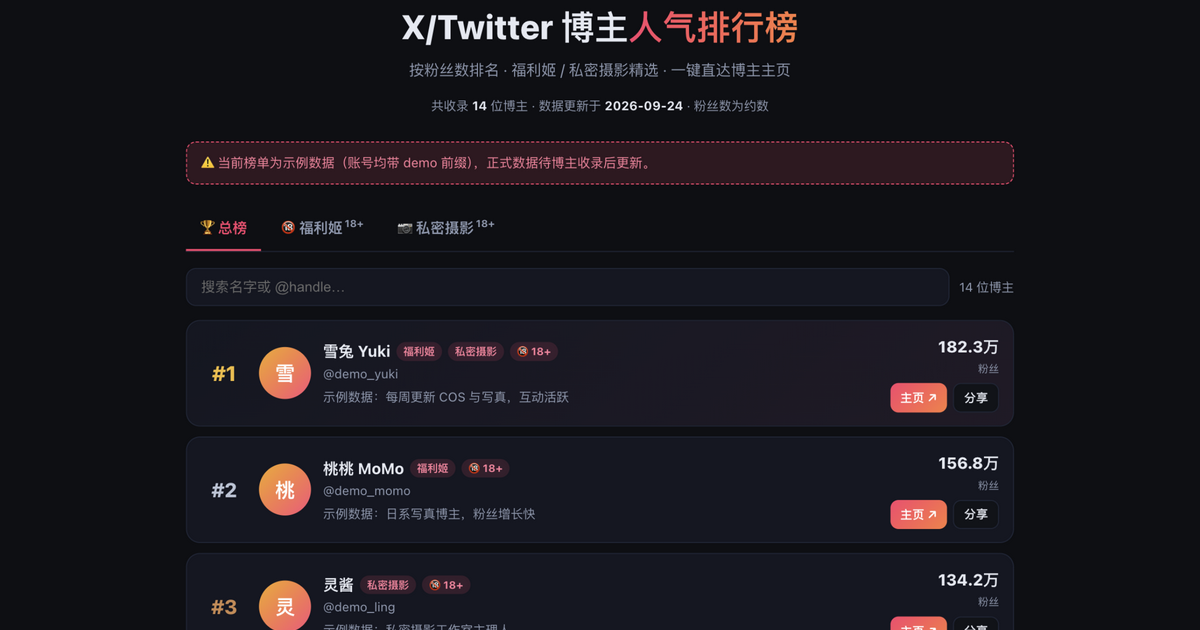
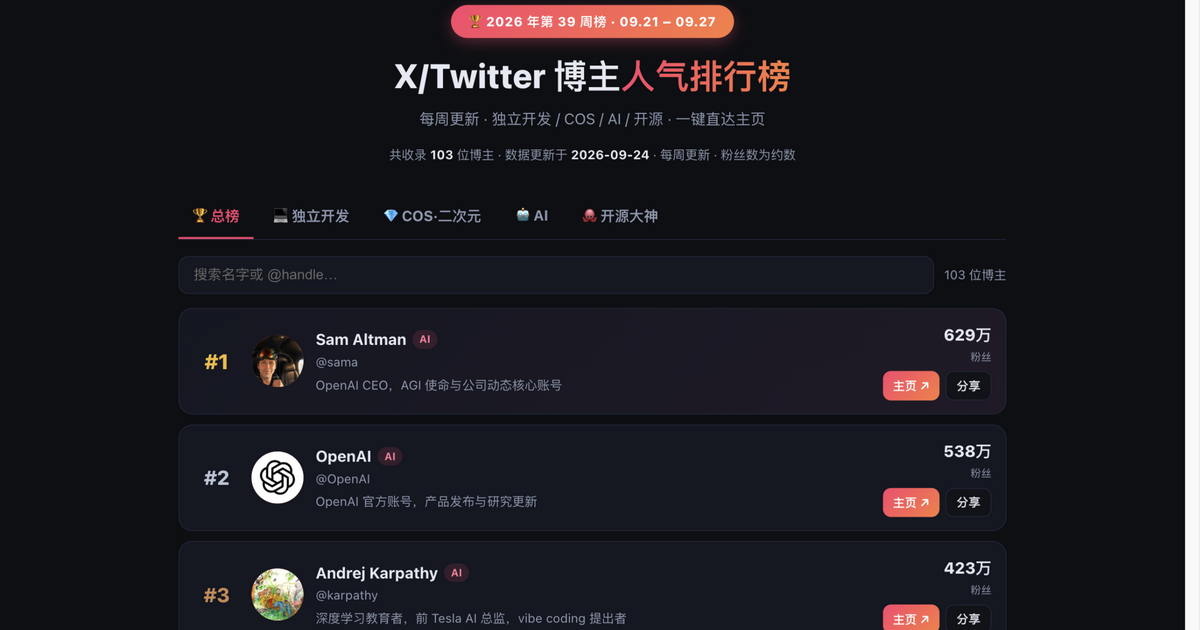
feat: remove all 18+ content for long-term safety — drop flj/photo tabs and 54 entries, age gate, NSFW copy; site is now all-ages (103 entries: indie/cos/ai/oss); regenerate og-image

diff --git a/index.html b/index.html
@@ -3,8 +3,8 @@
 <head>
 <meta charset="UTF-8">
 <meta name="viewport" content="width=device-width, initial-scale=1">
-<title>X热榜 — X/Twitter 博主每周人气排行 · 福利姬、私摄与独立开发推荐 | X Hot List</title>
-<meta name="description" content="X热榜是每周更新的 X（Twitter）博主粉丝数周榜：福利姬、私密摄影等 18+ 创作者与独立开发出海开发者按粉丝数排名，一键直达博主主页。免费提交收录，博主分享可带来真实流量。">
+<title>X热榜 — X/Twitter 博主每周人气排行 · 独立开发、COS、AI 与开源 | X Hot List</title>
+<meta name="description" content="X热榜是每周更新的 X（Twitter）博主粉丝数周榜：独立开发出海、COS·二次元、AI 与开源大神按粉丝数排名，一键直达博主主页。免费提交收录，博主分享可带来真实流量。">
 <link rel="canonical" href="https://tliens.top/">
 <link rel="alternate" hreflang="zh" href="https://tliens.top/?lang=zh">
 <link rel="alternate" hreflang="en" href="https://tliens.top/?lang=en">
@@ -13,14 +13,14 @@
 <meta property="og:type" content="website">
 <meta property="og:site_name" content="X热榜 · X Hot List">
 <meta property="og:title" content="X热榜 — X/Twitter 每周人气排行">
-<meta property="og:description" content="每周更新的 X 博主粉丝数周榜：福利姬、私密摄影与独立开发精选，一键直达主页。">
+<meta property="og:description" content="每周更新的 X 博主粉丝数周榜：独立开发、COS、AI 与开源精选，一键直达主页。">
 <meta property="og:url" content="https://tliens.top/">
 <meta property="og:image" content="https://tliens.top/og-image.png">
 <meta property="og:locale" content="zh_CN">
 <meta property="og:locale:alternate" content="en_US">
 <meta name="twitter:card" content="summary_large_image">
 <meta name="twitter:title" content="X热榜 — X/Twitter Creator Rankings">
-<meta name="twitter:description" content="Weekly X/Twitter creator rankings: 18+ picks, boudoir & indie hackers. One tap to each profile.">
+<meta name="twitter:description" content="Weekly X/Twitter creator rankings: indie hackers, cosplay, AI & open source. One tap to each profile.">
 <meta name="twitter:image" content="https://tliens.top/og-image.png">
 <script type="application/ld+json">
 {"@context":"https://schema.org","@graph":[
@@ -28,7 +28,7 @@
   "applicationCategory":"EntertainmentApplication","operatingSystem":"Any",
   "offers":{"@type":"Offer","price":"0","priceCurrency":"USD"},
   "inLanguage":["zh-CN","en"],
-  "description":"X（Twitter）博主每周人气排行榜，按粉丝数排名，含福利姬、私密摄影与独立开发推荐分区，可一键跳转博主主页。"},
+  "description":"X（Twitter）博主每周人气排行榜，按粉丝数排名，含独立开发、COS·二次元、AI 与开源推荐分区，可一键跳转博主主页。"},
  {"@type":"FAQPage","mainEntity":[
   {"@type":"Question","name":"榜单数据从哪里来？",
    "acceptedAnswer":{"@type":"Answer","text":"本榜每周更新一次，粉丝数为人工核对的约数，仅供排序参考。本站为独立目录站，与 X 官方无关联。"}},
@@ -36,8 +36,6 @@
    "acceptedAnswer":{"@type":"Answer","text":"点击页面的「提交收录」按钮，在 GitHub Issue 表单里填写博主信息，审核通过后即可免费上榜。"}},
   {"@type":"Question","name":"排名规则是什么？",
    "acceptedAnswer":{"@type":"Answer","text":"总榜按粉丝数从高到低排列；各分区沿用总榜名次，方便筛选浏览。"}},
-  {"@type":"Question","name":"福利姬 / 私密摄影分区有什么限制？",
-   "acceptedAnswer":{"@type":"Answer","text":"这两个分区包含成人向内容链接，进入前需确认年满 18 岁，确认结果只保存在你自己的浏览器里。"}},
   {"@type":"Question","name":"博主想修改或删除自己的信息怎么办？",
    "acceptedAnswer":{"@type":"Answer","text":"在 GitHub 仓库提 Issue 说明情况，或让朋友代为提交，通常 48 小时内处理下架或更正。"}}
  ]}
@@ -135,15 +133,6 @@ footer{border-top:1px solid var(--line);margin-top:34px;padding:22px 0 40px;font
 footer p{margin-bottom:6px}
 footer a{color:var(--chiptx)}
 .flinks{margin-top:10px;display:flex;gap:14px;flex-wrap:wrap}
-.gate{position:fixed;inset:0;z-index:100;background:rgba(5,7,12,.72);backdrop-filter:blur(6px);-webkit-backdrop-filter:blur(6px);display:flex;align-items:center;justify-content:center;padding:20px}
-.gate[hidden]{display:none}
-.gate .box{max-width:380px;width:100%;background:var(--card);border:1px solid var(--line);border-radius:16px;padding:26px 24px;text-align:center;box-shadow:var(--shadow)}
-.gate .ico{font-size:38px}
-.gate h3{font-size:18px;margin:10px 0 8px}
-.gate p{font-size:13.5px;color:var(--tx2);margin-bottom:18px}
-.gate .row{display:flex;gap:10px}
-.gate .row button{flex:1;border-radius:10px;padding:10px 0;font-size:14px;font-weight:700;border:1px solid var(--line);background:var(--bg2);color:var(--tx)}
-.gate .row .yes{background:linear-gradient(135deg,var(--acc),var(--acc2));border:none;color:#fff}
 @media (max-width:560px){
   .card{flex-wrap:wrap}
   .rk{flex:0 0 34px}
@@ -169,7 +158,7 @@ footer a{color:var(--chiptx)}
   <section class="hero">
     <div class="weekpill" id="weekPill">🏆 2026 年第 39 周榜 · 09.21 – 09.27</div>
     <h1><span data-i18n="h1a">X/Twitter 博主</span><em data-i18n="h1b">人气排行榜</em></h1>
-    <p class="tagline" data-i18n="tagline">每周更新 · 福利姬 / 私密摄影 / COS / 开发 / AI / 开源 · 一键直达主页</p>
+    <p class="tagline" data-i18n="tagline">每周更新 · 独立开发 / COS / AI / 开源 · 一键直达主页</p>
     <div class="metabar" id="metabar"></div>
   </section>
 
@@ -177,8 +166,6 @@ footer a{color:var(--chiptx)}
 
   <nav class="tabs" id="tabs">
     <button data-tab="all" class="on" data-i18n="tabAll">🏆 总榜</button>
-    <button data-tab="flj"><span data-i18n="tabFlj">🔞 福利姬</span><span class="ad">18+</span></button>
-    <button data-tab="photo"><span data-i18n="tabPhoto">📷 私密摄影</span><span class="ad">18+</span></button>
     <button data-tab="indie"><span data-i18n="tabIndie">💻 独立开发</span></button>
     <button data-tab="cos"><span data-i18n="tabCos">💎 COS·二次元</span></button>
     <button data-tab="ai"><span data-i18n="tabAi">🤖 AI</span></button>
@@ -215,10 +202,6 @@ footer a{color:var(--chiptx)}
       <p data-i18n="fa3">总榜按粉丝数从高到低排列；各分区沿用总榜名次，方便筛选浏览。</p>
     </details>
     <details>
-      <summary data-i18n="fq4">福利姬 / 私密摄影分区有什么限制？</summary>
-      <p data-i18n="fa4">这两个分区包含成人向内容链接，进入前需确认年满 18 岁。确认结果只保存在你自己的浏览器里，不会上传。</p>
-    </details>
-    <details>
       <summary data-i18n="fq5">博主想修改或删除自己的信息怎么办？</summary>
       <p data-i18n="fa5">在 GitHub 仓库提 Issue 说明情况即可，通常 48 小时内处理更正或下架。</p>
     </details>
@@ -226,8 +209,7 @@ footer a{color:var(--chiptx)}
 
   <footer>
     <p data-i18n="fDisc">本站为独立的第三方目录，与 X Corp. / Twitter 无任何关联；博主信息整理自公开资料，排名为约数仅供参考。</p>
-    <p data-i18n="fNsfw">🔞 站内部分链接指向含成人内容的账号，仅限年满 18 岁用户浏览，请遵守所在地区法律法规。</p>
-    <p data-i18n="fPrivacy">本站无账号系统、无跟踪 Cookie；年龄确认与主题偏好仅存储在你本地浏览器。</p>
+    <p data-i18n="fPrivacy">本站无账号系统、无跟踪 Cookie；主题偏好仅存储在你本地浏览器。</p>
     <div class="flinks">
       <a href="https://github.com/Tliens/xhot/issues/new?template=submit.yml" target="_blank" rel="noopener" data-i18n="fSubmit">提交收录</a>
       <a href="https://github.com/Tliens/xhot/issues" target="_blank" rel="noopener" data-i18n="fContact">联系 / 下架申请</a>
@@ -236,80 +218,15 @@ footer a{color:var(--chiptx)}
   </footer>
 </main>
 
-<div class="gate" id="gate" hidden>
-  <div class="box" role="dialog" aria-modal="true" aria-labelledby="gateTitle">
-    <div class="ico">🔞</div>
-    <h3 id="gateTitle" data-i18n="gateTitle">成人向内容确认</h3>
-    <p data-i18n="gateBody">此分区收录的博主可能发布成人向内容。确认你已年满 18 岁，并愿意浏览此类链接吗？</p>
-    <div class="row">
-      <button id="gateNo" data-i18n="gateNo">返回</button>
-      <button id="gateYes" class="yes" data-i18n="gateYes">我已满 18 岁，继续</button>
-    </div>
-  </div>
-</div>
-
 <script type="module">
 /* ===== 数据：手动维护。改这里即可，push 后约 1 分钟自动重新部署 =====
- * h: X 用户名（不带 @）；n: 显示名；f: 粉丝数（约数）；c: 分类 ['flj','photo','indie','sea']
+ * h: X 用户名（不带 @）；n: 显示名；f: 粉丝数（约数）；c: 分类 ['indie','sea','cos','acg','ai','oss']
  * d: 双语简介；av: 头像 URL（可留空，留空用首字母渐变头像）
  * bv: 主页封面 URL（可留空；填了会作为卡片背景，加载时渐显、悬停时遮罩渐隐）；add: 收录月份
  */
 const SITE = 'https://tliens.top/';
 const META = { updated: '2026-09-24', demo: false };
 const BLOGGERS = [
-  { h:'Anaimiya',       n:'Naimi奶咪',              f:4310000, c:['flj'],         d:{zh:'中文区头部成人内容创作者，高清自制视频与图片更新频繁',en:'Top Chinese-language adult creator with frequent HD self-produced updates'}, av:'https://pbs.twimg.com/profile_images/1754234821663182848/vi711eoo.jpg', add:'2026-09' },
-  { h:'waifupupu',      n:'♡pupuwaifu♡',            f:3300000, c:['flj'],         d:{zh:'人气反差系创作者，订阅制内容运营',en:'Popular contrast-style creator running subscription content'}, av:'https://pbs.twimg.com/profile_images/2019545301451771904/vnE3PDT3.jpg', add:'2026-09' },
-  { h:'HongKong_Doll',  n:'HongKongDoll',           f:3180000, c:['flj'],         d:{zh:'香港知名创作者，高清自拍视频全网广泛流传',en:'Well-known Hong Kong creator, widely shared HD self-shot videos'}, av:'https://pbs.twimg.com/profile_images/1546185691872247809/9wUYnr58.jpg', add:'2026-09' },
-  { h:'kunkunkun188',   n:'困困狗',                  f:1950000, c:['flj'],         d:{zh:'新晋高人气创作者，日常更新身材与生活分享',en:'Fast-rising creator with daily body & lifestyle posts'}, av:'https://pbs.twimg.com/profile_images/1546226883838496768/5kHDoMYB.jpg', add:'2026-09' },
-  { h:'SpicygumL',      n:'JuneLiu SpicyGum🍬',     f:1840000, c:['flj'],         d:{zh:'知名成人模特，多平台发布高清自制内容',en:'Renowned adult model publishing HD content across platforms'}, av:'https://pbs.twimg.com/profile_images/1347830166152744960/MswfNm6h.jpg', add:'2026-09' },
-  { h:'lvmaoshetuite',  n:'㊙绿帽社🍀',             f:1380000, c:['flj'],         d:{zh:'主题向创作者内容与资源分享账号',en:'Themed creator content and resource sharing account'}, av:'', add:'2026-09' },
-  { h:'FortuneCutie00', n:'FortuneCutie饼干姐姐',    f:1320000, c:['flj','photo'], d:{zh:'甜美风格写真与福利内容创作者',en:'Sweet-style photo sets and adult content creator'}, av:'https://pbs.twimg.com/profile_images/2076889809679990784/MeAyaCI0.jpg', add:'2026-09' },
-  { h:'joycelyn52011',  n:'江江',                    f:1110000, c:['flj'],         d:{zh:'日常更新私密向内容的创作者',en:'Creator sharing daily intimate content'}, av:'', add:'2026-09' },
-  { h:'sxeyuki',        n:'Sexy Yuki',              f:1090000, c:['flj'],         d:{zh:'佛系日更成人向内容创作者',en:'Laid-back daily adult content creator'}, av:'', add:'2026-09' },
-  { h:'dljingxiang',    n:'静香',                    f:1020000, c:['flj'],         d:{zh:'中文区人气创作者，专注私密视觉内容',en:'Popular Chinese creator focused on intimate visuals'}, av:'', add:'2026-09' },
-  { h:'watever177',     n:'17°',                    f:920000,  c:['flj'],         d:{zh:'原创 NSFW 创作者，多渠道订阅内容',en:'Original NSFW creator with multi-channel subscriptions'}, av:'', add:'2026-09' },
-  { h:'azhua1997',      n:'阿朱啊',                  f:890000,  c:['flj'],         d:{zh:'老牌人气创作者，日常写真与身材分享',en:'Veteran popular creator sharing daily photo sets'}, av:'https://pbs.twimg.com/profile_images/1073187548812345345/8o7zXjNE.jpg', add:'2026-09' },
-  { h:'TiTi40511552',   n:'🍑♡TiTi鈦合金♡ 🍑',      f:950000,  c:['cos','flj','photo'], d:{zh:'COS 与二次元艺术写真结合的 NSFW 模特',en:'NSFW model combining cosplay and anime-style art photography'}, av:'https://pbs.twimg.com/profile_images/1628362420451430407/p3j5Con-.jpg', add:'2026-09' },
-  { h:'oshiximiya',     n:'国服第一瑶',              f:870000,  c:['flj'],         d:{zh:'露脸向内容与吃播系列创作者',en:'Face-revealing content and mukbang series creator'}, av:'', add:'2026-09' },
-  { h:'nana_taipei',    n:'Nana',                   f:870000,  c:['flj','photo'], d:{zh:'台湾模特风写真与视频创作者',en:'Taiwanese model-style photo and video creator'}, av:'', add:'2026-09' },
-  { h:'12baegirl',      n:'♡† 𝐍𝐨. 𝟏𝟐 † 🕸',       f:870000,  c:['flj'],         d:{zh:'主题化运营的福利内容博主',en:'Themed adult content creator'}, av:'', add:'2026-09' },
-  { h:'kitty2002102',   n:'kitty2002102',           f:820000,  c:['flj'],         d:{zh:'原创 solo 视频内容创作者',en:'Original solo video content creator'}, av:'', add:'2026-09' },
-  { h:'WANIMAL912',     n:'WANIMAL | Official',     f:800000,  c:['photo'],       d:{zh:'人体艺术摄影师，RAW 风格光影表达',en:'Fine-art body photographer with a raw, light-driven style'}, av:'https://pbs.twimg.com/profile_images/1235720748267757569/OFHuDHUT.jpg', add:'2026-09' },
-  { h:'tiaotiaosheep',  n:'跳跳羊💃',                f:750000,  c:['flj'],         d:{zh:'御姐风原创认证内容创作者',en:'Mature-style creator with verified original content'}, av:'', add:'2026-09' },
-  { h:'gulililucky',    n:'Gulili谷鲤里',           f:750000,  c:['flj'],         d:{zh:'测评与情趣用品 vlog 类创作者',en:'Review and adult-toy vlog creator'}, av:'', add:'2026-09' },
-  { h:'vasileva1122',   n:'瓦西列娃的日记本',        f:690000,  c:['flj','photo'], d:{zh:'日记式私密内容与写真分享',en:'Diary-style intimate content and photo sets'}, av:'', add:'2026-09' },
-  { h:'bigcat_mia',     n:'高橋尤美',                f:690000,  c:['flj'],         d:{zh:'猫娘人设的甜系日常内容创作者',en:'Catgirl-persona creator with daily sweet content'}, av:'', add:'2026-09' },
-  { h:'kechunyaoll',    n:'𝓊𝓃𝒹𝓇ℯ𝓈𝓈',               f:640000,  c:['photo','flj'], d:{zh:'氛围感人像与私密摄影向内容',en:'Mood-driven portraits and intimate photography'}, av:'', add:'2026-09' },
-  { h:'alantop1069',    n:'🅰🅛🅐🅝 600K TOP 1%',     f:640000,  c:['flj'],         d:{zh:'台湾成人向视频内容创作者',en:'Taiwanese adult video creator'}, av:'', add:'2026-09' },
-  { h:'qianqianluoluo', n:'芊落',                    f:580000,  c:['flj','photo'], d:{zh:'清纯反差风写真与日常私密分享',en:'Pure-contrast photo sets and daily intimate shares'}, av:'https://pbs.twimg.com/profile_images/2016142175218581504/-13_VTm-.jpg', add:'2026-09' },
-  { h:'rercardo',       n:'九条南无',                f:570000,  c:['flj'],         d:{zh:'病娇人设 NSFW 内容创作者',en:'Yandere-persona NSFW creator'}, av:'', add:'2026-09' },
-  { h:'madousuchang',   n:'madousuchang',           f:560000,  c:['flj'],         d:{zh:'成人影片预览与资讯分享',en:'Adult film previews and info sharing'}, av:'', add:'2026-09' },
-  { h:'Mr_lu66',        n:'Mr_lu66',                f:520000,  c:['flj','photo'], d:{zh:'可爱系少女风 COS 与私房写真',en:'Cute-style cosplay and boudoir photo sets'}, av:'', add:'2026-09' },
-  { h:'yuzuki_shiroko', n:'yuzuki_shiroko',         f:480000,  c:['flj'],         d:{zh:'中文区人气成人内容博主',en:'Popular Chinese-language adult creator'}, av:'', add:'2026-09' },
-  { h:'Slut_Xi',        n:'Slut_Xi',                f:450000,  c:['flj'],         d:{zh:'腿控向视觉内容创作者',en:'Leg-focused visual content creator'}, av:'', add:'2026-09' },
-  { h:'yunij98',        n:'yunij98',                f:420000,  c:['flj'],         d:{zh:'反差风福利内容创作者',en:'Contrast-style adult content creator'}, av:'', add:'2026-09' },
-  { h:'xueqisama',      n:'xueqisama',              f:400000,  c:['flj','photo'], d:{zh:'COS 与私密写真结合的创作者',en:'Creator combining cosplay and intimate photo sets'}, av:'', add:'2026-09' },
-  { h:'tanhuajingxuan1',n:'探花精选',                f:380000,  c:['flj'],         d:{zh:'探花类国产内容精选分享',en:'Curated domestic amateur content sharing'}, av:'', add:'2026-09' },
-  { h:'EppleUr',        n:'EppleUr',                f:380000,  c:['photo'],       d:{zh:'高赞原创人体与私房摄影',en:'Highly liked original figure and boudoir photography'}, av:'', add:'2026-09' },
-  { h:'nvpusafuliji',   n:'女菩萨福利姬/每日大赛',    f:340000,  c:['flj'],         d:{zh:'每日创作者内容分享账号',en:'Daily creator content share account'}, av:'', add:'2026-09' },
-  { h:'battery1524',    n:'Battery狐姬',            f:320000,  c:['flj'],         d:{zh:'狐姬人设定制内容创作者',en:'Fox-girl persona custom content creator'}, av:'', add:'2026-09' },
-  { h:'tutushunli',     n:'白鸽夫妻',                f:320000,  c:['flj','photo'], d:{zh:'夫妻档私房写真与视频内容',en:'Couple boudoir photo sets and videos'}, av:'', add:'2026-09' },
-  { h:'Meiridasai_7',   n:'每日大赛',                f:300000,  c:['flj'],         d:{zh:'国产创作者内容聚合分享',en:'Domestic creator content aggregation'}, av:'', add:'2026-09' },
-  { h:'JiesheSf',       n:'杰摄📸私房',             f:300000,  c:['photo'],       d:{zh:'私房摄影作品与拍摄教学',en:'Boudoir photography and shooting tutorials'}, av:'', add:'2026-09' },
-  { h:'heteroneedhelp', n:'一爱女必须吃点好的',      f:280000,  c:['flj'],         d:{zh:'女性向 NSFW 文字与话题内容',en:'Female-oriented NSFW writing and topics'}, av:'', add:'2026-09' },
-  { h:'Boerbangdan',    n:'云境社区原创榜单',        f:230000,  c:['flj'],         d:{zh:'原创创作者榜单与社区内容聚合',en:'Original creator rankings and community curation'}, av:'', add:'2026-09' },
-  { h:'liqunsifang',    n:'利群📸私房',             f:140000,  c:['photo'],       d:{zh:'私房摄影创作与素人约拍',en:'Boudoir photography and amateur shoots'}, av:'', add:'2026-09' },
-  { h:'yuertianshi',    n:'小小愉儿',                f:80000,   c:['flj'],         d:{zh:'反差风日常内容创作者',en:'Contrast-style daily content creator'}, av:'', add:'2026-09' },
-  { h:'unababyainio',   n:'火爆李老师',              f:96000,   c:['photo','flj'], d:{zh:'足模写真与健身内容结合',en:'Foot-model photo sets combined with fitness content'}, av:'', add:'2026-09' },
-  { h:'xuexiaobanban',  n:'血小板板🚪',              f:57000,   c:['flj'],         d:{zh:'日常更新与线上业务内容',en:'Daily updates and online services'}, av:'', add:'2026-09' },
-  { h:'FLJ_xiaomei',    n:'福利姬—小美💋',          f:34000,   c:['flj'],         d:{zh:'日更福利向内容的创作者',en:'Daily-updating adult content creator'}, av:'', add:'2026-09' },
-  { h:'jiejie_waifu',   n:'姐姐的福利社',            f:29000,   c:['flj'],         d:{zh:'福利向日常内容创作者',en:'Daily adult content creator'}, av:'', add:'2026-09' },
-  { h:'push_no1',       n:'BigPi 大皮 人像攝影',     f:17000,   c:['photo'],       d:{zh:'台湾人像摄影合作与作品分享',en:'Taiwan portrait photography collabs and portfolio'}, av:'', add:'2026-09' },
-  { h:'e1703',          n:'𝖅𝖎 𝕴𝖒𝖆𝖌𝖊',              f:15000,   c:['photo'],       d:{zh:'广州（020）原创私房摄影，带水印作品',en:'Guangzhou (020) original watermarked boudoir works'}, av:'', add:'2026-09' },
-  { h:'coco051139830',  n:'福利姬（看主页）',        f:3000,    c:['flj'],         d:{zh:'系列内容免费预览与更新',en:'Free series previews and updates'}, av:'', add:'2026-09' },
-  { h:'Fxtyoo',         n:'FX',                     f:199000,  c:['photo'],       d:{zh:'原创艺术私房摄影与约拍',en:'Original artistic boudoir photography and bookings'}, av:'', add:'2026-09' },
-  { h:'HikariSuse',     n:'摄影师素色',              f:11000,   c:['photo'],       d:{zh:'北京私房与情侣影像记录',en:'Beijing private and couple photography'}, av:'', add:'2026-09' },
-  { h:'Shanghaisfphoto',n:'魔都私房摄影📷',          f:9000,    c:['photo'],       d:{zh:'上海私房摄影师约片',en:'Shanghai boudoir photographer bookings'}, av:'', add:'2026-09' },
   { h:'levelsio',       n:'levelsio',               f:961000,  c:['indie'],       d:{zh:'Indie Hacker 教父，多产品公开构建',en:'Godfather of indie hacking, multiple products in public'}, av:'https://pbs.twimg.com/profile_images/2077111020305162240/PwddgOau.jpg', add:'2026-09' },
   { h:'rauchg',         n:'Guillermo Rauch',        f:881000,  c:['indie'],       d:{zh:'Vercel CEO，Next.js 创造者',en:'Vercel CEO, creator of Next.js'}, av:'https://pbs.twimg.com/profile_images/1783856060249595904/8TfcCN0r.jpg', add:'2026-09' },
   { h:'gregisenberg',   n:'GREG ISENBERG',          f:717000,  c:['indie'],       d:{zh:'每日创业点子，Late Checkout 主理人',en:'Daily startup ideas, Late Checkout'}, av:'https://pbs.twimg.com/profile_images/1577116785656139776/5mi0qgTz.jpg', add:'2026-09' },
@@ -334,7 +251,6 @@ const BLOGGERS = [
   { h:'iorimoe_five',   n:'伊織萌',                  f:1600000, c:['cos'],         d:{zh:'日本超人气 Coser，多角色高还原与写真活动',en:'Very popular Japanese cosplayer with diverse high-fidelity looks'}, av:'', add:'2026-09' },
   { h:'sinonome_umi',   n:'東雲海',                  f:1180000, c:['cos'],         d:{zh:'日本高人气二次元 Coser',en:'Popular Japanese anime-style cosplayer'}, av:'', add:'2026-09' },
   { h:'Byoru',          n:'Byoru',                  f:1300000, c:['cos'],         d:{zh:'专业 Coser 与动漫爱好者',en:'Professional cosplayer and anime enthusiast'}, av:'', add:'2026-09' },
-  { h:'Yuumeilyn',      n:'Yuumeilyn',              f:1000000, c:['cos','flj'],   d:{zh:'专业 Coser，成人向写真创作',en:'Professional cosplayer with adult-oriented photo sets'}, av:'', add:'2026-09' },
   { h:'shimotsukiTW',   n:'霜月',                    f:760000,  c:['cos'],         d:{zh:'台湾知名萌系 Coser',en:'Well-known Taiwanese cute-style cosplayer'}, av:'', add:'2026-09' },
   { h:'Ely_eee',        n:'Ely',                    f:700000,  c:['cos'],         d:{zh:'台湾高人气 Coser，颜值出圈',en:'Popular Taiwanese cosplayer known for her looks'}, av:'', add:'2026-09' },
   { h:'monpink_mon',    n:'Mon夢',                   f:690000,  c:['cos'],         d:{zh:'台湾国际级 Coser，高还原细腻装扮',en:'International-level Taiwanese cosplayer with detailed costumes'}, av:'', add:'2026-09' },
@@ -419,17 +335,17 @@ const BLOGGERS = [
 /* ===== i18n ===== */
 const I18N = {
 zh:{
-  title:'X热榜 — X/Twitter 博主每周人气排行 · 福利姬、私摄与独立开发推荐 | X Hot List',
-  desc:'X热榜是每周更新的 X（Twitter）博主粉丝数周榜：福利姬、私密摄影等 18+ 创作者与独立开发出海开发者按粉丝数排名，一键直达博主主页。免费提交收录，博主分享可带来真实流量。',
+  title:'X热榜 — X/Twitter 博主每周人气排行 · 独立开发、COS、AI 与开源 | X Hot List',
+  desc:'X热榜是每周更新的 X（Twitter）博主粉丝数周榜：独立开发出海、COS·二次元、AI 与开源大神按粉丝数排名，一键直达博主主页。免费提交收录，博主分享可带来真实流量。',
   brand:'X热榜',
   h1a:'X/Twitter 博主', h1b:'人气排行榜',
-  tagline:'每周更新 · 福利姬 / 私密摄影 / COS / 开发 / AI / 开源 · 一键直达主页',
+  tagline:'每周更新 · 独立开发 / COS / AI / 开源 · 一键直达主页',
   metaCount:'共收录', metaCount2:'位博主', updated:'数据更新于', est:'粉丝数为约数', weekly:'每周更新',
   weekTpl:'🏆 {y} 年第 {w} 周榜 · {range}',
   demoNotice:'⚠ 当前榜单为示例数据（账号均带 demo 前缀），正式数据待博主收录后更新。',
-  tabAll:'🏆 总榜', tabFlj:'🔞 福利姬', tabPhoto:'📷 私密摄影', tabIndie:'💻 独立开发', tabCos:'💎 COS·二次元', tabAi:'🤖 AI', tabOss:'🐙 开源大神',
+  tabAll:'🏆 总榜', tabIndie:'💻 独立开发', tabCos:'💎 COS·二次元', tabAi:'🤖 AI', tabOss:'🐙 开源大神',
   searchPh:'搜索名字或 @handle…', countTpl:'{n} 位博主', empty:'没有匹配的博主，换个关键词试试',
-  followers:'粉丝', catFlj:'福利姬', catPhoto:'私密摄影', catIndie:'独立开发', catSea:'出海', catCos:'COS', catAcg:'二次元', catAi:'AI', catOss:'开源', c18:'18+',
+  followers:'粉丝', catIndie:'独立开发', catSea:'出海', catCos:'COS', catAcg:'二次元', catAi:'AI', catOss:'开源',
   btnHome:'主页 ↗', btnShare:'分享',
   ctaTitle:'你是 X 博主？免费上榜', ctaBody:'提交你的账号信息，审核通过即可进入榜单。榜单会为每位博主带来真实的主页访问流量，也欢迎把你的排名分享给粉丝。',
   ctaBtn:'＋ 提交收录', shareSite:'📢 分享 X热榜',
@@ -438,28 +354,24 @@ zh:{
   fq1:'榜单数据从哪里来？', fa1:'本榜每周更新一次，粉丝数为人工核对的约数，仅供排序参考。本站为独立目录站，与 X 官方无关联。',
   fq2:'怎么上榜 / 提交收录？', fa2:'点击「提交收录」按钮，在表单里填写博主用户名、分类和简介，审核通过后即可免费上榜。',
   fq3:'排名规则是什么？', fa3:'总榜按粉丝数从高到低排列；各分区沿用总榜名次，方便筛选浏览。',
-  fq4:'福利姬 / 私密摄影分区有什么限制？', fa4:'这两个分区包含成人向内容链接，进入前需确认年满 18 岁。确认结果只保存在你自己的浏览器里，不会上传。',
   fq5:'博主想修改或删除自己的信息怎么办？', fa5:'在 GitHub 仓库提 Issue 说明情况即可，通常 48 小时内处理更正或下架。',
   fDisc:'本站为独立的第三方目录，与 X Corp. / Twitter 无任何关联；博主信息整理自公开资料，排名为约数仅供参考。',
-  fNsfw:'🔞 站内部分链接指向含成人内容的账号，仅限年满 18 岁用户浏览，请遵守所在地区法律法规。',
-  fPrivacy:'本站无账号系统、无跟踪 Cookie；年龄确认与主题偏好仅存储在你本地浏览器。',
+  fPrivacy:'本站无账号系统、无跟踪 Cookie；主题偏好仅存储在你本地浏览器。',
   fSubmit:'提交收录', fContact:'联系 / 下架申请',
-  gateTitle:'成人向内容确认', gateBody:'此分区收录的博主可能发布成人向内容。确认你已年满 18 岁，并愿意浏览此类链接吗？',
-  gateYes:'我已满 18 岁，继续', gateNo:'返回',
   copied:'已复制 ✓'
 },
 en:{
-  title:'X Hot List — Weekly X/Twitter Creator Rankings: 18+, Boudoir & Indie Devs',
-  desc:'X Hot List is a weekly-updated ranking of popular X (Twitter) creators: curated 18+ and boudoir picks plus indie hackers going global, ranked by followers. One tap to each profile. Free submission.',
+  title:'X Hot List — Weekly X/Twitter Creator Rankings: Indie, Cosplay, AI & Open Source',
+  desc:'X Hot List is a weekly-updated ranking of popular X (Twitter) creators: indie hackers going global, cosplayers, AI voices and open source legends, ranked by followers. One tap to each profile. Free submission.',
   brand:'X Hot List',
   h1a:'X/Twitter Creator ', h1b:'Rankings',
-  tagline:'Updated weekly · 18+ / Boudoir / Cosplay / Dev / AI / OSS · One tap to each profile',
+  tagline:'Updated weekly · Indie / Cosplay / AI / OSS · One tap to each profile',
   metaCount:'', metaCount2:'creators listed', updated:'Updated', est:'follower counts are estimates', weekly:'updated weekly',
   weekTpl:'🏆 Week {w}, {y} Ranking · {range}',
   demoNotice:'⚠ Demo data below (all handles prefixed with demo_). Real entries will be added after review.',
-  tabAll:'🏆 All', tabFlj:'🔞 18+ Picks', tabPhoto:'📷 Boudoir', tabIndie:'💻 Indie Dev', tabCos:'💎 Cosplay', tabAi:'🤖 AI', tabOss:'🐙 Open Source',
+  tabAll:'🏆 All', tabIndie:'💻 Indie Dev', tabCos:'💎 Cosplay', tabAi:'🤖 AI', tabOss:'🐙 Open Source',
   searchPh:'Search name or @handle…', countTpl:'{n} creators', empty:'No creators match. Try another keyword.',
-  followers:'followers', catFlj:'18+ Creator', catPhoto:'Boudoir', catIndie:'Indie Dev', catSea:'Going Global', catCos:'Cosplay', catAcg:'Anime', catAi:'AI', catOss:'Open Source', c18:'18+',
+  followers:'followers', catIndie:'Indie Dev', catSea:'Going Global', catCos:'Cosplay', catAcg:'Anime', catAi:'AI', catOss:'Open Source',
   btnHome:'Profile ↗', btnShare:'Share',
   ctaTitle:'Are you a creator? Get listed free', ctaBody:'Submit your account and appear on the board after review. Your rank badge drives real profile visits — share it with your fans.',
   ctaBtn:'＋ Submit', shareSite:'📢 Share X Hot List',
@@ -468,25 +380,19 @@ en:{
   fq1:'Where does the data come from?', fa1:'The board updates once a week; follower counts are manually verified estimates for ranking reference. This is an independent directory, not affiliated with X.',
   fq2:'How do I get listed?', fa2:'Click Submit, fill in the handle, category and bio in the form. Listing is free once approved.',
   fq3:'How does ranking work?', fa3:'The main board sorts by follower count. Each tab keeps main-board ranks for easy browsing.',
-  fq4:'Any restriction on 18+ tabs?', fa4:'Those tabs link to adult-oriented accounts. You must confirm you are 18+ first; the confirmation is stored only in your browser.',
   fq5:'How to fix or remove my info?', fa5:'Open an Issue on the GitHub repo describing the request. Corrections and takedowns are usually handled within 48 hours.',
   fDisc:'Independent third-party directory, not affiliated with X Corp. / Twitter. Info compiled from public sources; ranks are estimates.',
-  fNsfw:'🔞 Some links point to adult-content accounts, for adults 18+ only. Follow your local laws.',
-  fPrivacy:'No accounts, no tracking cookies. Age confirmation and theme preference stay in your local browser.',
+  fPrivacy:'No accounts, no tracking cookies. Theme preference stays in your local browser.',
   fSubmit:'Submit', fContact:'Contact / Takedown',
-  gateTitle:'Adult content ahead', gateBody:'Creators in this tab may post adult-oriented content. Confirm you are 18 or older to continue?',
-  gateYes:'I am 18+, continue', gateNo:'Go back',
   copied:'Copied ✓'
 }};
 
 /* ===== state & helpers ===== */
 const $ = id => document.getElementById(id);
 const esc = s => String(s).replace(/[&<>"']/g, c => ({'&':'&amp;','<':'&lt;','>':'&gt;','"':'&quot;',"'":'&#39;'}[c]));
-const NSFW_TABS = ['flj','photo'];
 let lang = 'zh';
 let tab = 'all';
 let query = '';
-let pendingTab = null;
 const t = k => { const L = I18N[lang] || {}; return (k in L ? L[k] : undefined) ?? I18N.zh[k] ?? k; };
 
 function initLang(){
@@ -575,9 +481,8 @@ function renderList(){
     const av = b.av
       ? '<span class="av"><img src="' + esc(b.av) + '" alt="" loading="lazy" onerror="this.parentNode.textContent=\'' + esc(initial) + '\'"></span>'
       : '<span class="av" style="--g1:' + g1 + ';--g2:' + g2 + '">' + esc(initial) + '</span>';
-    const CATKEY = { flj:'catFlj', photo:'catPhoto', indie:'catIndie', sea:'catSea', cos:'catCos', acg:'catAcg', ai:'catAi', oss:'catOss' };
-    const chips = b.c.map(c => '<span class="chip">' + esc(t(CATKEY[c] || c)) + '</span>').join('')
-      + (NSFW_TABS.some(x => b.c.includes(x)) ? ' <span class="chip">🔞 ' + t('c18') + '</span>' : '');
+    const CATKEY = { indie:'catIndie', sea:'catSea', cos:'catCos', acg:'catAcg', ai:'catAi', oss:'catOss' };
+    const chips = b.c.map(c => '<span class="chip">' + esc(t(CATKEY[c] || c)) + '</span>').join('');
     return '<li class="card r' + (r <= 3 ? r : '') + '">' + bg
       + '<div class="rk">#' + r + '</div>' + av
       + '<div class="info"><div class="nm">' + esc(b.n) + chips + '</div>'
@@ -625,16 +530,9 @@ function shareBlogger(handle){
   tweet(t('shareText').replace('{name}', b.n).replace('{rank}', rankOf[b.h]), SITE + '?ref=' + encodeURIComponent(handle));
 }
 
-/* ===== tabs & age gate ===== */
-function is18(){ try{ return localStorage.getItem('xhot18') === '1'; }catch(e){ return false; } }
+/* ===== tabs ===== */
 function goTab(id, syncHash){
-  if (NSFW_TABS.includes(id) && !is18()){
-    pendingTab = id;
-    $('gate').hidden = false;
-    return;
-  }
   tab = id;
-  $('gate').hidden = true;
   document.querySelectorAll('#tabs button').forEach(b => b.classList.toggle('on', b.dataset.tab === id));
   renderList();
   window.scrollTo({ top: 0 });
@@ -654,14 +552,6 @@ $('list').addEventListener('click', e => {
   if (b) shareBlogger(b.dataset.share);
 });
 $('btnShareSite').addEventListener('click', () => tweet(t('shareSiteText')));
-$('gateYes').addEventListener('click', () => {
-  try{ localStorage.setItem('xhot18', '1'); }catch(e){}
-  const go = pendingTab || 'all';
-  pendingTab = null;
-  goTab(go);
-});
-$('gateNo').addEventListener('click', () => { pendingTab = null; $('gate').hidden = true; });
-$('gate').addEventListener('click', e => { if (e.target === $('gate')) { pendingTab = null; $('gate').hidden = true; } });
 
 /* ===== boot ===== */
 initLang();
@@ -672,7 +562,7 @@ renderWeek();
 if (META.demo) $('demoNotice').style.display = '';
 else $('demoNotice').style.display = 'none';
 const h0 = location.hash.replace('#','');
-goTab(['all','flj','photo','indie','cos','ai','oss'].includes(h0) ? h0 : 'all', false);
+goTab(['all','indie','cos','ai','oss'].includes(h0) ? h0 : 'all', false);
 </script>
 <script type='module' src='https://static.cloudflareinsights.com/beacon.min.js' data-cf-beacon='{"token": "948f2535a9dd4775a436c677b3c950e4"}'></script>
 </body>

diff --git a/README.md b/README.md
@@ -1,10 +1,10 @@
 # X热榜 · X Hot List
 
-X（Twitter）博主人气排行榜：按粉丝数排名，含「福利姬 / 18+ Creators」「私密摄影 / Boudoir」「独立开发 / Indie Dev」推荐分区，一键直达博主主页。博主可提交收录、分享自己的排名徽章，为主页带来真实流量。
+X（Twitter）博主人气排行榜：按粉丝数排名，含「独立开发 / Indie Dev」「COS·二次元 / Cosplay」「AI」「开源大神 / Open Source」推荐分区，一键直达博主主页。全站适合所有年龄浏览。博主可提交收录、分享自己的排名徽章，为主页带来真实流量。
 
 **线上地址 Live**: https://tliens.top/
 
-纯静态单文件站点（`index.html`，内联 CSS/JS，零外部依赖、零构建），中英双语（`?lang=zh` / `?lang=en`），亮暗主题，NSFW 分区需 18+ 确认（仅存本地浏览器）。
+纯静态单文件站点（`index.html`，内联 CSS/JS，零外部依赖、零构建），中英双语（`?lang=zh` / `?lang=en`），亮暗主题，无任何成人内容。
 
 ## 维护数据 / Update data
 
@@ -14,7 +14,7 @@ X（Twitter）博主人气排行榜：按粉丝数排名，含「福利姬 / 18+
 { h:'handle',        // X 用户名，不带 @（必填）
   n:'显示名',         // 显示名（必填）
   f:128000,          // 粉丝数，纯数字（约数即可）
-  c:['flj','photo'], // 分类：flj=福利姬, photo=私密摄影, indie=独立开发, sea=出海, cos=COS, acg=二次元, ai=AI, oss=开源（可多选）
+  c:['indie','sea'], // 分类：indie=独立开发, sea=出海, cos=COS, acg=二次元, ai=AI, oss=开源（可多选）
   d:{zh:'简介', en:'bio'},  // 双语一句话简介
   av:'',             // 头像 URL，可留空（留空显示首字母渐变头像；pbs.twimg.com 直链可用，失效自动回退）
   bv:'',             // 主页封面 URL，可留空（填了作为卡片背景：加载渐显、悬停遮罩渐隐）
@@ -43,10 +43,10 @@ python3 -m http.server 8971
 
 ## 内容政策 / Content policy
 
-- 仅收录 18+ 平台合规账号；成人向账号需已开启 X 的敏感内容标记
+- 仅收录平台合规、适合全年龄展示的创作者账号
 - 收录需博主本人同意；博主可随时通过 Issue 申请修改或下架（通常 48 小时内处理）
 - 粉丝数为人工核对的约数，仅供参考；本站与 X Corp. 无关联
 
 ## English
 
-X Hot List is a ranked directory of popular Chinese X (Twitter) creators, sorted by follower count, with curated **18+ Creators** and **Boudoir** tabs. Single-file static site, bilingual (zh/en), dark/light themes, 18+ gate for NSFW tabs. Creators submit via the GitHub issue form; approved entries are added to the `BLOGGERS` array in `index.html` and go live on push. Follower counts are manually verified estimates. Not affiliated with X Corp.
+X Hot List is a ranked directory of popular Chinese X (Twitter) creators, sorted by follower count, with Indie Dev, Cosplay, AI and Open Source tabs. Single-file static site, bilingual (zh/en), dark/light themes, Creators submit via the GitHub issue form; approved entries are added to the `BLOGGERS` array in `index.html` and go live on push. Follower counts are manually verified estimates. Not affiliated with X Corp.

diff --git a/data-sources/2026-09-28-nsfw-removal.md b/data-sources/2026-09-28-nsfw-removal.md
@@ -1,0 +1,8 @@
+# 2026-09-28 全年龄化：移除全部 18+ 内容
+
+- 决策：为站点长期发展（域名信誉 / SEO / 变现 / 品牌安全），下线全部 18+ 博主
+- 移除 54 条：全部 flj（福利姬）与 photo（私密摄影）分类条目，含 COS 交叉的 TiTi40511552、Yuumeilyn（纯成人人设）
+- 移除的 UI：福利姬/私密摄影两个 Tab、18+ 年龄门（gate/NSFW_TABS/xhot18）、🔞 角标、相关 SEO/FAQ/页脚文案
+- 保留 103 条（indie/sea 18、cos/acg 20、ai 26、oss 40），站点定位：技术与创作者榜单
+- **被移除数据未丢失**：完整原文在 grok-1/grok-2/grok-4 档案里，如需恢复按档案重建 BLOGGERS 条目即可
+- og-image 已重制（原深色首页截图含成人博主卡片）
